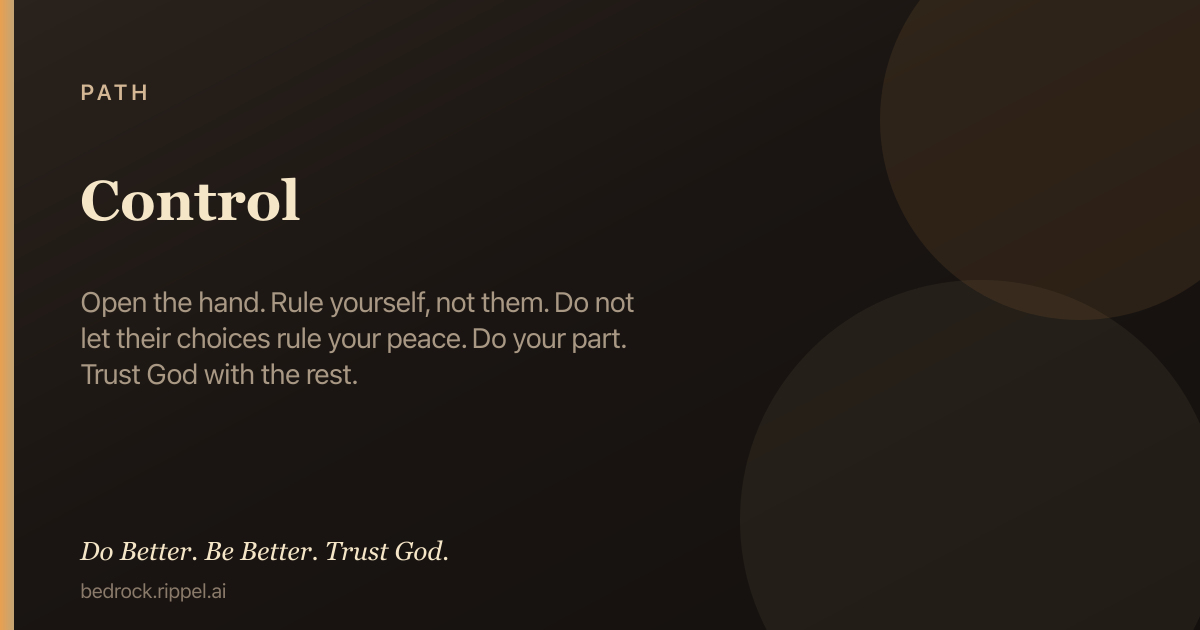
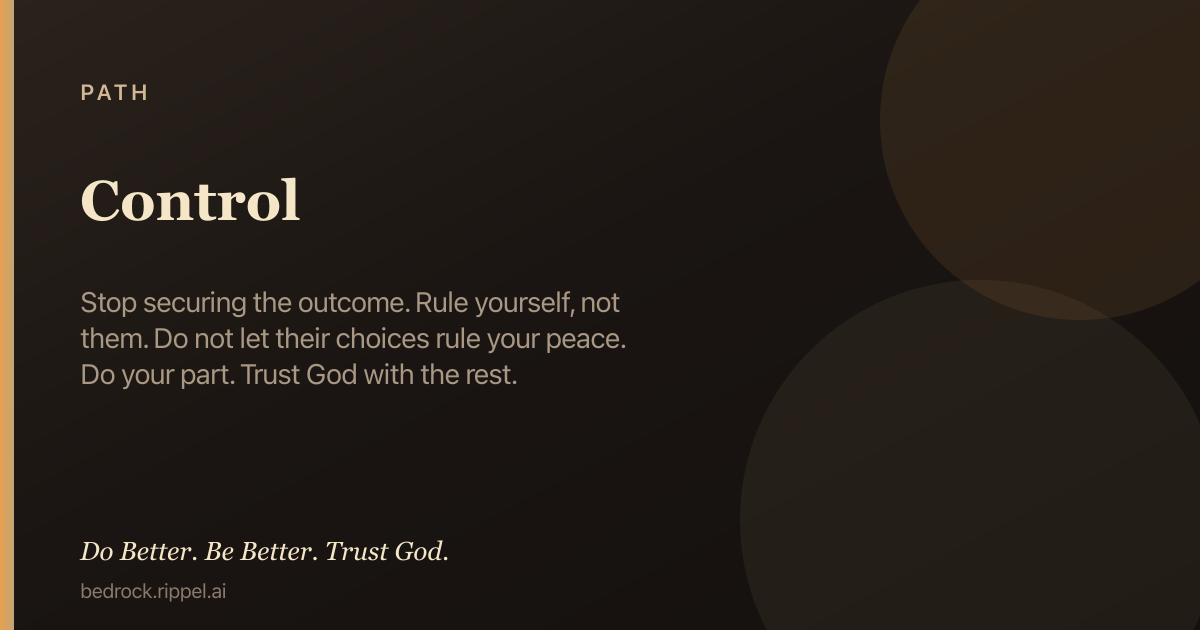
Drop “open hands” metaphor for plain outcome language
People don’t know what open hands means. Say it straight: stop
securing the outcome, leave the rest to God, do your part. Update
Trust, Control, Wait, control-grip path, and Control key hint.

Changed region(s): [[0.0617, 0.4524, 0.5242, 0.6333]]

diff --git a/public/c/trust-in-the-lord.html b/public/c/trust-in-the-lord.html
@@ -4,7 +4,7 @@
   <meta charset="utf-8" />
   <meta name="viewport" content="width=device-width, initial-scale=1" />
   <title>Trust in the Lord — Bedrock</title>
-  <meta name="description" content="Trust is open hands when you cannot grip the outcome — not lean on your own understanding. Hold first: Under fire, prayer, then Truth. Do Better. Be…" />
+  <meta name="description" content="Trust means stop securing the outcome yourself — lean on Him, not on your own understanding. Hold first: Under fire, prayer, then Truth. Do Better. Be…" />
   <meta name="robots" content="index, follow, max-image-preview:large, max-snippet:-1" />
   <meta name="ai-content-declaration" content="human-authored Christian field guide; hold-first: Under fire, Prayer, then Truth" />
   <link rel="canonical" href="https://bedrock.rippel.ai/c/trust-in-the-lord" />
@@ -12,7 +12,7 @@
   <meta property="og:site_name" content="Bedrock" />
   <meta property="og:type" content="article" />
   <meta property="og:title" content="Trust in the Lord — Bedrock" />
-  <meta property="og:description" content="Trust is open hands when you cannot grip the outcome — not lean on your own understanding. Hold first: Under fire, prayer, then Truth. Do Better. Be…" />
+  <meta property="og:description" content="Trust means stop securing the outcome yourself — lean on Him, not on your own understanding. Hold first: Under fire, prayer, then Truth. Do Better. Be…" />
   <meta property="og:url" content="https://bedrock.rippel.ai/c/trust-in-the-lord" />
   <meta property="og:image" content="https://bedrock.rippel.ai/og/c/trust-in-the-lord.v7.png" />
   <meta property="og:image:secure_url" content="https://bedrock.rippel.ai/og/c/trust-in-the-lord.v7.png" />
@@ -22,14 +22,14 @@
   <meta property="og:image:alt" content="Trust in the Lord — Bedrock" />
   <meta name="twitter:card" content="summary_large_image" />
   <meta name="twitter:title" content="Trust in the Lord — Bedrock" />
-  <meta name="twitter:description" content="Trust is open hands when you cannot grip the outcome — not lean on your own understanding. Hold first: Under fire, prayer, then Truth. Do Better. Be…" />
+  <meta name="twitter:description" content="Trust means stop securing the outcome yourself — lean on Him, not on your own understanding. Hold first: Under fire, prayer, then Truth. Do Better. Be…" />
   <meta name="twitter:image" content="https://bedrock.rippel.ai/og/c/trust-in-the-lord.v7.png" />
   <meta name="twitter:image:alt" content="Trust in the Lord — Bedrock" />
   <script type="application/ld+json">
-  {"@context":"https://schema.org","@type":"Article","headline":"Trust in the Lord","description":"Trust is open hands when you cannot grip the outcome — not lean on your own understanding.","url":"https://bedrock.rippel.ai/c/trust-in-the-lord","author":{"@type":"Organization","name":"Bedrock","url":"https://bedrock.rippel.ai"},"publisher":{"@type":"Organization","name":"Bedrock","url":"https://bedrock.rippel.ai"},"image":"https://bedrock.rippel.ai/og/c/trust-in-the-lord.v7.png","inLanguage":"en","isPartOf":{"@type":"WebSite","name":"Bedrock","url":"https://bedrock.rippel.ai"},"articleSection":"First principle · Hold first","keywords":"Trust in the Lord, Bedrock, Under fire, prayer, Scripture"}
+  {"@context":"https://schema.org","@type":"Article","headline":"Trust in the Lord","description":"Trust means stop securing the outcome yourself — lean on Him, not on your own understanding.","url":"https://bedrock.rippel.ai/c/trust-in-the-lord","author":{"@type":"Organization","name":"Bedrock","url":"https://bedrock.rippel.ai"},"publisher":{"@type":"Organization","name":"Bedrock","url":"https://bedrock.rippel.ai"},"image":"https://bedrock.rippel.ai/og/c/trust-in-the-lord.v7.png","inLanguage":"en","isPartOf":{"@type":"WebSite","name":"Bedrock","url":"https://bedrock.rippel.ai"},"articleSection":"First principle · Hold first","keywords":"Trust in the Lord, Bedrock, Under fire, prayer, Scripture"}
   </script>
   <script type="application/ld+json">
-  {"@context":"https://schema.org","@type":"HowTo","name":"Use Trust in the Lord under fire (Bedrock hold-first)","description":"Open this chamber for the next right hold: Under fire first, then Prayer, then Truth when you can read.","step":[{"@type":"HowToStep","position":1,"name":"Under fire","text":"Name the grip: I am securing the outcome. Trust is open hands — not lean on my understanding. Take only the next step He shows. Do not demand the whole map. Release what you cannot rule. Panic is not wisdom. Presence is not control."},{"@type":"HowToStep","position":2,"name":"Prayer","text":"Father, I trust You with all my heart. I release the outcome. Direct my path. Amen."},{"@type":"HowToStep","position":3,"name":"Truth","text":"When capacity returns, read the Scripture-rooted body on this page."}],"url":"https://bedrock.rippel.ai/c/trust-in-the-lord"}
+  {"@context":"https://schema.org","@type":"HowTo","name":"Use Trust in the Lord under fire (Bedrock hold-first)","description":"Open this chamber for the next right hold: Under fire first, then Prayer, then Truth when you can read.","step":[{"@type":"HowToStep","position":1,"name":"Under fire","text":"Name the grip: I am securing the outcome. Stop. Lean on Him — not on your own understanding. Take only the next step He shows. Do not demand the whole map. Release what you cannot rule. Panic is not wisdom. Presence is not control."},{"@type":"HowToStep","position":2,"name":"Prayer","text":"Father, I trust You with all my heart. I release the outcome. Direct my path. Amen."},{"@type":"HowToStep","position":3,"name":"Truth","text":"When capacity returns, read the Scripture-rooted body on this page."}],"url":"https://bedrock.rippel.ai/c/trust-in-the-lord"}
   </script>
   <script>
 (function(){
@@ -206,7 +206,7 @@
         <header class="chamber-header">
           <p class="chamber-kicker">First principle</p>
           <h1 class="chamber-title">Trust in the Lord</h1>
-          <p class="chamber-summary">Trust is open hands when you cannot grip the outcome — not lean on your own understanding.</p>
+          <p class="chamber-summary">Trust means stop securing the outcome yourself — lean on Him, not on your own understanding.</p>
         </header>
         <nav class="nav" aria-label="Chamber actions">
           <a class="primary" href="/?c=trust-in-the-lord">Open in field guide</a>
@@ -218,7 +218,7 @@
           <section class="field-layer field-hacks" aria-labelledby="fire">
             <h2 id="fire" class="field-layer-label">Under fire</h2>
             <p class="field-layer-hint">The next right hold — walk this hour.</p>
-            <ul class="field-list field-hacks"><li>Name the grip: I am securing the outcome. Trust is open hands — not lean on my understanding.</li>
+            <ul class="field-list field-hacks"><li>Name the grip: I am securing the outcome. Stop. Lean on Him — not on your own understanding.</li>
 <li>Take only the next step He shows. Do not demand the whole map.</li>
 <li>Release what you cannot rule. Panic is not wisdom. Presence is not control.</li></ul>
           </section>
@@ -232,7 +232,7 @@
       <section class="field-layer field-truth-depth" aria-labelledby="truth">
         <h2 id="truth" class="field-layer-label">Truth</h2>
         <p class="field-layer-hint">When you can read deeper — Scripture-rooted steel.</p>
-        <div class="chamber-body"><p class="chamber-paragraph">Trust is not passive. It is not gripping harder with religious words. It is open hands: acknowledge Him in this path, take the next right step, leave the harvest to Him. Control tries to secure people, timeline, certainty — often fear, also pride, habit, or idol. Trust is the other path.</p>
+        <div class="chamber-body"><p class="chamber-paragraph">Trust is not passive. It is not gripping harder with religious words. It is this: acknowledge Him in this path, take the next right step, leave the harvest to Him. Control tries to secure people, timeline, certainty — often fear, also pride, habit, or idol. Trust is the other path.</p>
 <p class="chamber-paragraph">Trust in the Lord with all your heart, and do not lean on your own understanding. In all your ways acknowledge Him, and He will make straight your paths.</p>
 <p class="chamber-paragraph">Do not be anxious about anything, but in everything by prayer and supplication with thanksgiving let your requests be made known to God. And the peace of God, which surpasses all understanding, will guard your hearts and your minds in Christ Jesus.</p>
 <p class="chamber-paragraph">Therefore do not be anxious about tomorrow, for tomorrow will be anxious for itself. Sufficient for the day is its own trouble.</p>

diff --git a/public/c/control.html b/public/c/control.html
@@ -4,7 +4,7 @@
   <meta charset="utf-8" />
   <meta name="viewport" content="width=device-width, initial-scale=1" />
   <title>Control — Bedrock</title>
-  <meta name="description" content="Control is the grip on the outcome. Often fear — also pride, habit, or idol. Open the hand. Hold first: Under fire, prayer, then Truth. Do Better. Be…" />
+  <meta name="description" content="Control is the grip on the outcome. Often fear — also pride, habit, or idol. Stop securing what only God can rule. Hold first: Under fire, prayer, then…" />
   <meta name="robots" content="index, follow, max-image-preview:large, max-snippet:-1" />
   <meta name="ai-content-declaration" content="human-authored Christian field guide; hold-first: Under fire, Prayer, then Truth" />
   <link rel="canonical" href="https://bedrock.rippel.ai/c/control" />
@@ -12,7 +12,7 @@
   <meta property="og:site_name" content="Bedrock" />
   <meta property="og:type" content="article" />
   <meta property="og:title" content="Control — Bedrock" />
-  <meta property="og:description" content="Control is the grip on the outcome. Often fear — also pride, habit, or idol. Open the hand. Hold first: Under fire, prayer, then Truth. Do Better. Be…" />
+  <meta property="og:description" content="Control is the grip on the outcome. Often fear — also pride, habit, or idol. Stop securing what only God can rule. Hold first: Under fire, prayer, then…" />
   <meta property="og:url" content="https://bedrock.rippel.ai/c/control" />
   <meta property="og:image" content="https://bedrock.rippel.ai/og/c/control.v7.png" />
   <meta property="og:image:secure_url" content="https://bedrock.rippel.ai/og/c/control.v7.png" />
@@ -22,14 +22,14 @@
   <meta property="og:image:alt" content="Control — Bedrock" />
   <meta name="twitter:card" content="summary_large_image" />
   <meta name="twitter:title" content="Control — Bedrock" />
-  <meta name="twitter:description" content="Control is the grip on the outcome. Often fear — also pride, habit, or idol. Open the hand. Hold first: Under fire, prayer, then Truth. Do Better. Be…" />
+  <meta name="twitter:description" content="Control is the grip on the outcome. Often fear — also pride, habit, or idol. Stop securing what only God can rule. Hold first: Under fire, prayer, then…" />
   <meta name="twitter:image" content="https://bedrock.rippel.ai/og/c/control.v7.png" />
   <meta name="twitter:image:alt" content="Control — Bedrock" />
   <script type="application/ld+json">
-  {"@context":"https://schema.org","@type":"Article","headline":"Control","description":"Control is the grip on the outcome. Often fear — also pride, habit, or idol. Open the hand.","url":"https://bedrock.rippel.ai/c/control","author":{"@type":"Organization","name":"Bedrock","url":"https://bedrock.rippel.ai"},"publisher":{"@type":"Organization","name":"Bedrock","url":"https://bedrock.rippel.ai"},"image":"https://bedrock.rippel.ai/og/c/control.v7.png","inLanguage":"en","isPartOf":{"@type":"WebSite","name":"Bedrock","url":"https://bedrock.rippel.ai"},"articleSection":"First principle · Hold first","keywords":"Control, Bedrock, Under fire, prayer, Scripture"}
+  {"@context":"https://schema.org","@type":"Article","headline":"Control","description":"Control is the grip on the outcome. Often fear — also pride, habit, or idol. Stop securing what only God can rule.","url":"https://bedrock.rippel.ai/c/control","author":{"@type":"Organization","name":"Bedrock","url":"https://bedrock.rippel.ai"},"publisher":{"@type":"Organization","name":"Bedrock","url":"https://bedrock.rippel.ai"},"image":"https://bedrock.rippel.ai/og/c/control.v7.png","inLanguage":"en","isPartOf":{"@type":"WebSite","name":"Bedrock","url":"https://bedrock.rippel.ai"},"articleSection":"First principle · Hold first","keywords":"Control, Bedrock, Under fire, prayer, Scripture"}
   </script>
   <script type="application/ld+json">
-  {"@context":"https://schema.org","@type":"HowTo","name":"Use Control under fire (Bedrock hold-first)","description":"Open this chamber for the next right hold: Under fire first, then Prayer, then Truth when you can read.","step":[{"@type":"HowToStep","position":1,"name":"Under fire","text":"Control grips the outcome. Often fear — also pride, habit, or idol. Name the driver. Open the hand. If you must hold the outcome, it has become a god. Love them; do not let their choices rule your peace. Rule yourself, not them. Do your part. Leave the rest to God."},{"@type":"HowToStep","position":2,"name":"Prayer","text":"Father, I release this grip — fear, pride, or idol. Direct my path. Amen."},{"@type":"HowToStep","position":3,"name":"Truth","text":"When capacity returns, read the Scripture-rooted body on this page."}],"url":"https://bedrock.rippel.ai/c/control"}
+  {"@context":"https://schema.org","@type":"HowTo","name":"Use Control under fire (Bedrock hold-first)","description":"Open this chamber for the next right hold: Under fire first, then Prayer, then Truth when you can read.","step":[{"@type":"HowToStep","position":1,"name":"Under fire","text":"Control grips the outcome. Often fear — also pride, habit, or idol. Name the driver. Stop securing it. If you must hold the outcome, it has become a god. Love them; do not let their choices rule your peace. Rule yourself, not them. Do your part. Leave the rest to God."},{"@type":"HowToStep","position":2,"name":"Prayer","text":"Father, I release this grip — fear, pride, or idol. Direct my path. Amen."},{"@type":"HowToStep","position":3,"name":"Truth","text":"When capacity returns, read the Scripture-rooted body on this page."}],"url":"https://bedrock.rippel.ai/c/control"}
   </script>
   <script>
 (function(){
@@ -206,7 +206,7 @@
         <header class="chamber-header">
           <p class="chamber-kicker">First principle</p>
           <h1 class="chamber-title">Control</h1>
-          <p class="chamber-summary">Control is the grip on the outcome. Often fear — also pride, habit, or idol. Open the hand.</p>
+          <p class="chamber-summary">Control is the grip on the outcome. Often fear — also pride, habit, or idol. Stop securing what only God can rule.</p>
         </header>
         <nav class="nav" aria-label="Chamber actions">
           <a class="primary" href="/?c=control">Open in field guide</a>
@@ -218,7 +218,7 @@
           <section class="field-layer field-hacks" aria-labelledby="fire">
             <h2 id="fire" class="field-layer-label">Under fire</h2>
             <p class="field-layer-hint">The next right hold — walk this hour.</p>
-            <ul class="field-list field-hacks"><li>Control grips the outcome. Often fear — also pride, habit, or idol. Name the driver. Open the hand.</li>
+            <ul class="field-list field-hacks"><li>Control grips the outcome. Often fear — also pride, habit, or idol. Name the driver. Stop securing it.</li>
 <li>If you must hold the outcome, it has become a god. Love them; do not let their choices rule your peace.</li>
 <li>Rule yourself, not them. Do your part. Leave the rest to God.</li></ul>
           </section>
@@ -232,7 +232,7 @@
       <section class="field-layer field-truth-depth" aria-labelledby="truth">
         <h2 id="truth" class="field-layer-label">Truth</h2>
         <p class="field-layer-hint">When you can read deeper — Scripture-rooted steel.</p>
-        <div class="chamber-body"><p class="chamber-paragraph">Control is the grip that tries to secure the outcome — people, timeline, certainty. It is often fear at work; pride, habit, and the idol of outcome can drive it too. Name the driver. Open the hand. Leave the rest to the Lord.</p>
+        <div class="chamber-body"><p class="chamber-paragraph">Control is the grip that tries to secure the outcome — people, timeline, certainty. It is often fear at work; pride, habit, and the idol of outcome can drive it too. Name the driver. Stop securing what only God can rule. Do your part. Leave the rest to the Lord.</p>
 <p class="chamber-paragraph">Trust in the Lord with all your heart, and do not lean on your own understanding. In all your ways acknowledge Him, and He will make straight your paths.</p>
 <p class="chamber-paragraph">Be still, and know that I am God. I will be exalted among the nations, I will be exalted in the earth!</p>
 <p class="chamber-paragraph">The fruit of the Spirit is love, joy, peace, patience, kindness, goodness, faithfulness, gentleness, self-control; against such things there is no law.</p>

diff --git a/public/j/control-grip.html b/public/j/control-grip.html
@@ -4,13 +4,13 @@
   <meta charset="utf-8" />
   <meta name="viewport" content="width=device-width, initial-scale=1" />
   <title>Control — Bedrock Path</title>
-  <meta name="description" content="Open the hand. Rule yourself, not them. Do not let their choices rule your peace. Do your part. Trust God with the rest. Multi-station path in Bedrock. Do…" />
+  <meta name="description" content="Stop securing the outcome. Rule yourself, not them. Do not let their choices rule your peace. Do your part. Trust God with the rest. Multi-station path in…" />
   <meta name="robots" content="index, follow" />
   <link rel="canonical" href="https://bedrock.rippel.ai/j/control-grip" />
   <meta property="og:site_name" content="Bedrock" />
   <meta property="og:type" content="article" />
   <meta property="og:title" content="Control — Bedrock Path" />
-  <meta property="og:description" content="Open the hand. Rule yourself, not them. Do not let their choices rule your peace. Do your part. Trust God with the rest. Multi-station path in Bedrock. Do…" />
+  <meta property="og:description" content="Stop securing the outcome. Rule yourself, not them. Do not let their choices rule your peace. Do your part. Trust God with the rest. Multi-station path in…" />
   <meta property="og:url" content="https://bedrock.rippel.ai/j/control-grip" />
   <meta property="og:image" content="https://bedrock.rippel.ai/og/j/control-grip.v7.png" />
   <meta property="og:image:secure_url" content="https://bedrock.rippel.ai/og/j/control-grip.v7.png" />
@@ -20,11 +20,11 @@
   <meta property="og:image:alt" content="Control — Bedrock Path" />
   <meta name="twitter:card" content="summary_large_image" />
   <meta name="twitter:title" content="Control — Bedrock Path" />
-  <meta name="twitter:description" content="Open the hand. Rule yourself, not them. Do not let their choices rule your peace. Do your part. Trust God with the rest. Multi-station path in Bedrock. Do…" />
+  <meta name="twitter:description" content="Stop securing the outcome. Rule yourself, not them. Do not let their choices rule your peace. Do your part. Trust God with the rest. Multi-station path in…" />
   <meta name="twitter:image" content="https://bedrock.rippel.ai/og/j/control-grip.v7.png" />
   <meta name="twitter:image:alt" content="Control — Bedrock Path" />
   <script type="application/ld+json">
-  {"@context":"https://schema.org","@type":"Article","headline":"Control","description":"Open the hand. Rule yourself, not them. Do not let their choices rule your peace. Do your part. Trust God with the rest.","url":"https://bedrock.rippel.ai/j/control-grip","author":{"@type":"Organization","name":"Bedrock","url":"https://bedrock.rippel.ai"},"publisher":{"@type":"Organization","name":"Bedrock","url":"https://bedrock.rippel.ai"},"image":"https://bedrock.rippel.ai/og/j/control-grip.v7.png","inLanguage":"en","isPartOf":{"@type":"WebSite","name":"Bedrock","url":"https://bedrock.rippel.ai"},"articleSection":"Path · Journey"}
+  {"@context":"https://schema.org","@type":"Article","headline":"Control","description":"Stop securing the outcome. Rule yourself, not them. Do not let their choices rule your peace. Do your part. Trust God with the rest.","url":"https://bedrock.rippel.ai/j/control-grip","author":{"@type":"Organization","name":"Bedrock","url":"https://bedrock.rippel.ai"},"publisher":{"@type":"Organization","name":"Bedrock","url":"https://bedrock.rippel.ai"},"image":"https://bedrock.rippel.ai/og/j/control-grip.v7.png","inLanguage":"en","isPartOf":{"@type":"WebSite","name":"Bedrock","url":"https://bedrock.rippel.ai"},"articleSection":"Path · Journey"}
   </script>
   <script>
 (function(){
@@ -64,7 +64,7 @@
   <main class="wrap">
     <p class="kicker">Path · Journey · Bedrock</p>
     <h1>Control</h1>
-    <p class="summary">Open the hand. Rule yourself, not them. Do not let their choices rule your peace. Do your part. Trust God with the rest.</p>
+    <p class="summary">Stop securing the outcome. Rule yourself, not them. Do not let their choices rule your peace. Do your part. Trust God with the rest.</p>
     <nav class="nav" aria-label="Path actions">
       <a class="primary" href="/?j=control-grip">Open this path</a>
       <a href="/c/control">Door station</a>
@@ -73,7 +73,7 @@
     </nav>
     <section class="card" aria-labelledby="stations">
       <h2 id="stations">8 stations</h2>
-      <ol><li><span class="stage-num">1</span> <a href="/c/control">Grip</a> <span class="stage-note">— If you must force the outcome, it has become a god. Open the hand.</span></li>
+      <ol><li><span class="stage-num">1</span> <a href="/c/control">Grip</a> <span class="stage-note">— If you must force the outcome, it has become a god. Stop securing it.</span></li>
 <li><span class="stage-num">2</span> <a href="/c/trust-in-the-lord">Trust</a> <span class="stage-note">— Release the outcome you cannot rule.</span></li>
 <li><span class="stage-num">3</span> <a href="/c/patience">Patience</a> <span class="stage-note">— You do not control the weather.</span></li>
 <li><span class="stage-num">4</span> <a href="/c/wait-on-the-lord">Wait</a> <span class="stage-note">— Do the one duty you own today.</span></li>

diff --git a/public/k/key-control.html b/public/k/key-control.html
@@ -4,13 +4,13 @@
   <meta charset="utf-8" />
   <meta name="viewport" content="width=device-width, initial-scale=1" />
   <title>Control — Bedrock Key</title>
-  <meta name="description" content="Open hand. Storm key in Bedrock. Do Better. Be Better. Trust God." />
+  <meta name="description" content="Stop securing. Storm key in Bedrock. Do Better. Be Better. Trust God." />
   <meta name="robots" content="index, follow" />
   <link rel="canonical" href="https://bedrock.rippel.ai/k/key-control" />
   <meta property="og:site_name" content="Bedrock" />
   <meta property="og:type" content="article" />
   <meta property="og:title" content="Control — Bedrock Key" />
-  <meta property="og:description" content="Open hand. Storm key in Bedrock. Do Better. Be Better. Trust God." />
+  <meta property="og:description" content="Stop securing. Storm key in Bedrock. Do Better. Be Better. Trust God." />
   <meta property="og:url" content="https://bedrock.rippel.ai/k/key-control" />
   <meta property="og:image" content="https://bedrock.rippel.ai/og/k/key-control.v7.png" />
   <meta property="og:image:secure_url" content="https://bedrock.rippel.ai/og/k/key-control.v7.png" />
@@ -20,11 +20,11 @@
   <meta property="og:image:alt" content="Control — Bedrock Key" />
   <meta name="twitter:card" content="summary_large_image" />
   <meta name="twitter:title" content="Control — Bedrock Key" />
-  <meta name="twitter:description" content="Open hand. Storm key in Bedrock. Do Better. Be Better. Trust God." />
+  <meta name="twitter:description" content="Stop securing. Storm key in Bedrock. Do Better. Be Better. Trust God." />
   <meta name="twitter:image" content="https://bedrock.rippel.ai/og/k/key-control.v7.png" />
   <meta name="twitter:image:alt" content="Control — Bedrock Key" />
   <script type="application/ld+json">
-  {"@context":"https://schema.org","@type":"Article","headline":"Control","description":"Open hand","url":"https://bedrock.rippel.ai/k/key-control","author":{"@type":"Organization","name":"Bedrock","url":"https://bedrock.rippel.ai"},"publisher":{"@type":"Organization","name":"Bedrock","url":"https://bedrock.rippel.ai"},"image":"https://bedrock.rippel.ai/og/k/key-control.v7.png","inLanguage":"en","isPartOf":{"@type":"WebSite","name":"Bedrock","url":"https://bedrock.rippel.ai"},"articleSection":"Key"}
+  {"@context":"https://schema.org","@type":"Article","headline":"Control","description":"Stop securing","url":"https://bedrock.rippel.ai/k/key-control","author":{"@type":"Organization","name":"Bedrock","url":"https://bedrock.rippel.ai"},"publisher":{"@type":"Organization","name":"Bedrock","url":"https://bedrock.rippel.ai"},"image":"https://bedrock.rippel.ai/og/k/key-control.v7.png","inLanguage":"en","isPartOf":{"@type":"WebSite","name":"Bedrock","url":"https://bedrock.rippel.ai"},"articleSection":"Key"}
   </script>
   <script>
 (function(){
@@ -61,7 +61,7 @@
   <main class="wrap">
     <p class="kicker">Key · Bedrock</p>
     <h1>Control</h1>
-    <p class="summary">Open hand</p>
+    <p class="summary">Stop securing</p>
     <nav class="nav" aria-label="Key actions">
       <a class="primary" href="/?c=control&door=key-control&j=control-grip">Open this key</a>
       <a href="/c/control">Station</a>

diff --git a/public/c/wait-on-the-lord.html b/public/c/wait-on-the-lord.html
@@ -29,7 +29,7 @@
   {"@context":"https://schema.org","@type":"Article","headline":"Wait on the Lord","description":"When everything is out of your control — wait. Be strong. Take courage.","url":"https://bedrock.rippel.ai/c/wait-on-the-lord","author":{"@type":"Organization","name":"Bedrock","url":"https://bedrock.rippel.ai"},"publisher":{"@type":"Organization","name":"Bedrock","url":"https://bedrock.rippel.ai"},"image":"https://bedrock.rippel.ai/og/c/wait-on-the-lord.v7.png","inLanguage":"en","isPartOf":{"@type":"WebSite","name":"Bedrock","url":"https://bedrock.rippel.ai"},"articleSection":"First principle · Hold first","keywords":"Wait on the Lord, Bedrock, Under fire, prayer, Scripture"}
   </script>
   <script type="application/ld+json">
-  {"@context":"https://schema.org","@type":"HowTo","name":"Use Wait on the Lord under fire (Bedrock hold-first)","description":"Open this chamber for the next right hold: Under fire first, then Prayer, then Truth when you can read.","step":[{"@type":"HowToStep","position":1,"name":"Under fire","text":"Be strong. Wait for the Lord, not for your timeline. Force is flesh. Waiting is faith with open hands. Obey today. Leave the harvest to Him."},{"@type":"HowToStep","position":2,"name":"Prayer","text":"Lord, I wait for You. Renew my strength. Amen."},{"@type":"HowToStep","position":3,"name":"Truth","text":"When capacity returns, read the Scripture-rooted body on this page."}],"url":"https://bedrock.rippel.ai/c/wait-on-the-lord"}
+  {"@context":"https://schema.org","@type":"HowTo","name":"Use Wait on the Lord under fire (Bedrock hold-first)","description":"Open this chamber for the next right hold: Under fire first, then Prayer, then Truth when you can read.","step":[{"@type":"HowToStep","position":1,"name":"Under fire","text":"Be strong. Wait for the Lord, not for your timeline. Force is flesh. Waiting is faith that does not force the harvest. Obey today. Leave the harvest to Him."},{"@type":"HowToStep","position":2,"name":"Prayer","text":"Lord, I wait for You. Renew my strength. Amen."},{"@type":"HowToStep","position":3,"name":"Truth","text":"When capacity returns, read the Scripture-rooted body on this page."}],"url":"https://bedrock.rippel.ai/c/wait-on-the-lord"}
   </script>
   <script>
 (function(){
@@ -219,7 +219,7 @@
             <h2 id="fire" class="field-layer-label">Under fire</h2>
             <p class="field-layer-hint">The next right hold — walk this hour.</p>
             <ul class="field-list field-hacks"><li>Be strong. Wait for the Lord, not for your timeline.</li>
-<li>Force is flesh. Waiting is faith with open hands.</li>
+<li>Force is flesh. Waiting is faith that does not force the harvest.</li>
 <li>Obey today. Leave the harvest to Him.</li></ul>
           </section>
           <section class="field-layer field-prayers" aria-labelledby="prayer">

diff --git a/src/lib/spine.ts b/src/lib/spine.ts
@@ -115,7 +115,7 @@ export const SPINE_ANCHORS = [
   'works-of-the-flesh',
   'the-full-armor-of-god',
   'watch-and-be-ready',
-  'control', // release grip / open hand — hub for jealousy & trust
+  'control', // release grip / stop securing outcome — hub for jealousy & trust
   'prayer', // practice / gifts approach
   'spiritual-gifts',
   'hope-of-glory',

diff --git a/src/lib/key-entries.ts b/src/lib/key-entries.ts
@@ -107,7 +107,7 @@ export const KEY_ENTRIES: KeyEntry[] = [
   {
     id: 'key-control',
     label: 'Control',
-    hint: 'Open hand',
+    hint: 'Stop securing',
     chamberId: 'control',
     journeyId: 'control-grip',
   },

diff --git a/public/c/README.md b/public/c/README.md
@@ -41,7 +41,7 @@ Canonical field-guide pages for crawlers and answer engines.
 - [Leave Vengeance to the Lord](https://bedrock.rippel.ai/c/leave-vengeance-to-the-lord) — Vengeance belongs to Him — and hatred has no place with love.
 - [Forgive as You Have Been Forgiven](https://bedrock.rippel.ai/c/forgive-as-you-have-been-forgiven) — Forgive one another as God in Christ forgave you.
 - [One Another in the Body](https://bedrock.rippel.ai/c/one-another-in-the-body) — Bear one another’s burdens, and so fulfill the law of Christ.
-- [Trust in the Lord](https://bedrock.rippel.ai/c/trust-in-the-lord) — Trust is open hands when you cannot grip the outcome — not lean on your own understanding.
+- [Trust in the Lord](https://bedrock.rippel.ai/c/trust-in-the-lord) — Trust means stop securing the outcome yourself — lean on Him, not on your own understanding.
 - [Do Not Fear](https://bedrock.rippel.ai/c/do-not-fear) — God has not given you a spirit of fear, but of power, love, and a sound mind.
 - [Fear](https://bedrock.rippel.ai/c/fear) — There is no fear in love, but perfect love casts out fear. For fear has to do with punishment, and whoever fears has not been perfected in love.
 - [Loss](https://bedrock.rippel.ai/c/loss) — Grief for real loss and possible loss — He is near the brokenhearted.
@@ -50,7 +50,7 @@ Canonical field-guide pages for crawlers and answer engines.
 - [Regret](https://bedrock.rippel.ai/c/regret) — Godly grief leads to life; worldly grief leads to death.
 - [Addiction](https://bedrock.rippel.ai/c/addiction) — If it masters you, it is not free — walk by the Spirit; put the flesh to death.
 - [Jealousy](https://bedrock.rippel.ai/c/jealousy) — If it demands control of another, it is not love — walk by the Spirit; put the flesh to death.
-- [Control](https://bedrock.rippel.ai/c/control) — Control is the grip on the outcome. Often fear — also pride, habit, or idol. Open the hand.
+- [Control](https://bedrock.rippel.ai/c/control) — Control is the grip on the outcome. Often fear — also pride, habit, or idol. Stop securing what only God can rule.
 - [Presence Without Control](https://bedrock.rippel.ai/c/presence-without-control) — Relax. Be present. Don’t take or force control of the present or the future.
 - [Renew Your Mind](https://bedrock.rippel.ai/c/renew-your-mind) — Transformed mind.
 - [Take Every Thought Captive](https://bedrock.rippel.ai/c/take-every-thought-captive) — Divine power demolishes strongholds — take every thought captive to Christ.

diff --git a/public/c/trust-in-the-lord.md b/public/c/trust-in-the-lord.md
@@ -1,12 +1,12 @@
 # Trust in the Lord
 
-> Trust is open hands when you cannot grip the outcome — not lean on your own understanding.
+> Trust means stop securing the outcome yourself — lean on Him, not on your own understanding.
 
 *Station · Hold first (Under fire → Prayer → Truth) · Bedrock · https://bedrock.rippel.ai/c/trust-in-the-lord*
 
 ## Under fire
 
-- Name the grip: I am securing the outcome. Trust is open hands — not lean on my understanding.
+- Name the grip: I am securing the outcome. Stop. Lean on Him — not on your own understanding.
 - Take only the next step He shows. Do not demand the whole map.
 - Release what you cannot rule. Panic is not wisdom. Presence is not control.
 
@@ -16,7 +16,7 @@ Father, I trust You with all my heart. I release the outcome. Direct my path. Am
 
 ## Truth
 
-Trust is not passive. It is not gripping harder with religious words. It is open hands: acknowledge Him in this path, take the next right step, leave the harvest to Him. Control tries to secure people, timeline, certainty — often fear, also pride, habit, or idol. Trust is the other path.
+Trust is not passive. It is not gripping harder with religious words. It is this: acknowledge Him in this path, take the next right step, leave the harvest to Him. Control tries to secure people, timeline, certainty — often fear, also pride, habit, or idol. Trust is the other path.
 
 Trust in the Lord with all your heart, and do not lean on your own understanding. In all your ways acknowledge Him, and He will make straight your paths.
 

diff --git a/public/c/control.md b/public/c/control.md
@@ -1,12 +1,12 @@
 # Control
 
-> Control is the grip on the outcome. Often fear — also pride, habit, or idol. Open the hand.
+> Control is the grip on the outcome. Often fear — also pride, habit, or idol. Stop securing what only God can rule.
 
 *Station · Hold first (Under fire → Prayer → Truth) · Bedrock · https://bedrock.rippel.ai/c/control*
 
 ## Under fire
 
-- Control grips the outcome. Often fear — also pride, habit, or idol. Name the driver. Open the hand.
+- Control grips the outcome. Often fear — also pride, habit, or idol. Name the driver. Stop securing it.
 - If you must hold the outcome, it has become a god. Love them; do not let their choices rule your peace.
 - Rule yourself, not them. Do your part. Leave the rest to God.
 
@@ -16,7 +16,7 @@ Father, I release this grip — fear, pride, or idol. Direct my path. Amen.
 
 ## Truth
 
-Control is the grip that tries to secure the outcome — people, timeline, certainty. It is often fear at work; pride, habit, and the idol of outcome can drive it too. Name the driver. Open the hand. Leave the rest to the Lord.
+Control is the grip that tries to secure the outcome — people, timeline, certainty. It is often fear at work; pride, habit, and the idol of outcome can drive it too. Name the driver. Stop securing what only God can rule. Do your part. Leave the rest to the Lord.
 
 Trust in the Lord with all your heart, and do not lean on your own understanding. In all your ways acknowledge Him, and He will make straight your paths.
 

diff --git a/public/j/README.md b/public/j/README.md
@@ -8,7 +8,7 @@ Canonical multi-station paths for crawlers and social share.
 - [Abandonment fear](https://bedrock.rippel.ai/j/abandonment-fear) — Perfect love casts out fear. You cry Abba — not slave to terror. Trust when the face is gone.
 - [Addiction](https://bedrock.rippel.ai/j/addiction) — If it masters you, it is not free. Name the master; walk by the Spirit one hour; get real help.
 - [Obsession](https://bedrock.rippel.ai/j/obsession) — The stuck replaying mind is not the Holy Spirit. Capture the thought. Replace it with truth. Take the next right step.
-- [Control](https://bedrock.rippel.ai/j/control-grip) — Open the hand. Rule yourself, not them. Do not let their choices rule your peace. Do your part. Trust God with the rest.
+- [Control](https://bedrock.rippel.ai/j/control-grip) — Stop securing the outcome. Rule yourself, not them. Do not let their choices rule your peace. Do your part. Trust God with the rest.
 - [Jealousy](https://bedrock.rippel.ai/j/jealousy) — Jealousy is not love. Capture the thought. Choose selfless love. Trust God with what you cannot hold.
 - [I fell](https://bedrock.rippel.ai/j/i-fell) — Name the fall. Confess. Grace is enough. Rise. The righteous man falls and gets up again.
 - [Sexual sin](https://bedrock.rippel.ai/j/sexual-sin) — Confess, forsake, be cleansed. Do not call darkness a new identity. Deny yourself; walk by the Spirit.

diff --git a/public/k/README.md b/public/k/README.md
@@ -13,7 +13,7 @@ Storm triage doors for crawlers and social share.
 - [Fear](https://bedrock.rippel.ai/k/key-fear) — Abandonment
 - [Addiction](https://bedrock.rippel.ai/k/key-addiction) — It owns me
 - [Jealousy](https://bedrock.rippel.ai/k/key-jealousy) — Not love
-- [Control](https://bedrock.rippel.ai/k/key-control) — Open hand
+- [Control](https://bedrock.rippel.ai/k/key-control) — Stop securing
 - [Sexual sin](https://bedrock.rippel.ai/k/key-sexual-sin) — Not your own
 - [Witchcraft](https://bedrock.rippel.ai/k/key-witchcraft) — Counterfeit power
 - [Persecution](https://bedrock.rippel.ai/k/key-persecution) — For His name
